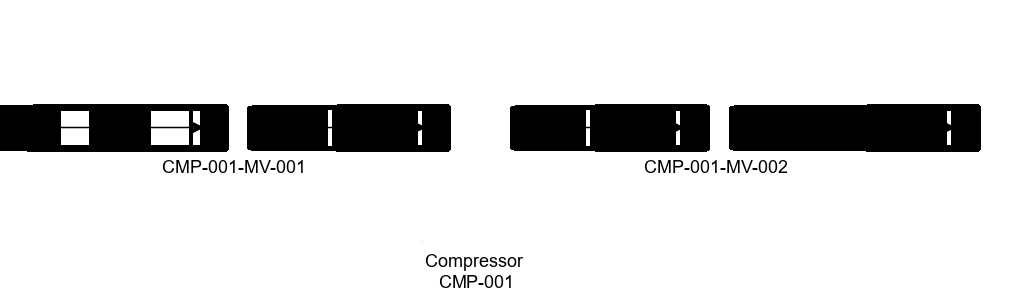
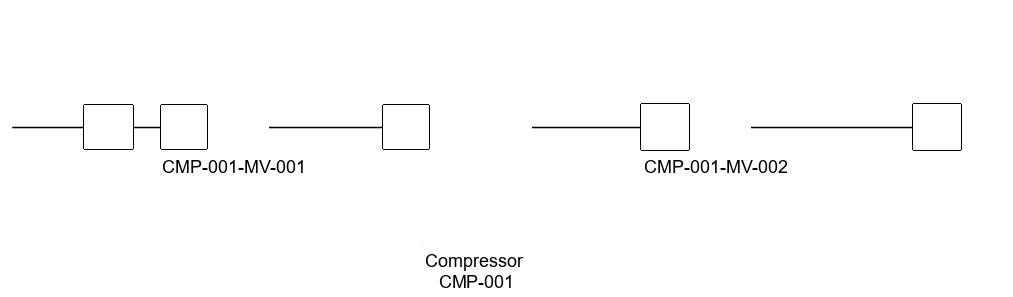
[+] Merge intersection

Changed region(s): [[0.4896, 0.3333, 0.9793, 0.5152], [0.0, 0.3333, 0.459, 0.5152]]

diff --git a/hackathon_conform_it/main.py b/hackathon_conform_it/main.py
@@ -25,9 +25,130 @@ def remove_isolate_peak(coordonates, matrix):
     return list
 
 @staticmethod
-def heatmap(image, template, scale):
+def effacer(image, coord, w, h):
+    return cv.rectangle(image, coord, (coord[0] + w, coord[1] + h), (255, 255, 255), -1)
 
-    return None
+@staticmethod
+def getObjet(img, template_name):
+    template = load_image(f"./tmp/{template_name}.png", True)
+
+    # heatmap = np.zeros(img.shape)
+    hcoin, wcoin = template.shape
+    list_objet = []
+
+    ######## SKImage
+    result = match_template(img, template)
+    coordonates = peak_local_max(result,min_distance=10)
+
+    ## Remove isolate peak
+    coordonates = remove_isolate_peak(coordonates, result)
+
+    ## Save Bounding box --> (x, y), h, w
+    list_coord = []
+    for coord in coordonates:
+        list_coord.append((coord[0], coord[1], wcoin, hcoin))
+
+    coordonates = merge_intersection(list_coord)
+
+    for x, y, w, h in coordonates:
+        list_objet.append(Model(template_name, ((x, y), w, h)))
+
+    fig = plt.figure()
+    ax1 = plt.subplot(1, 2, 1)
+    ax2 = plt.subplot(1, 2, 2)
+
+    ax1.imshow(img)
+    ax1.set_axis_off()
+    ax1.set_title("image")
+    # highlight matched region
+    for j, i, w, h in coordonates:
+        rect = plt.Rectangle((i, j), w, h, edgecolor="r", facecolor="none")
+        ax1.add_patch(rect)
+        img = effacer(img, (i, j), w, h)
+
+    ax2.imshow(img)
+    ax2.set_axis_off()
+    ax2.set_title("`match_template`\nresult")
+
+    plt.show()
+
+    return list_objet
+
+@staticmethod
+def getArrows(image):
+    list_arrow = []
+    template = load_image(f"./tmp/arrow_1_3.png", True)
+    ##### OpenCV
+    w, h = template.shape[::-1]
+    res = cv.matchTemplate(image, template, cv.TM_CCOEFF_NORMED)
+    threshold = 0.33
+    loc = np.where(res >= threshold)
+
+    list_coords = []
+    for pt in zip(*loc[::-1]):
+        list_coords.append((pt[0], pt[1], w, h))
+
+    coordonates = merge_intersection(list_coords)
+
+    for x, y, w, h in coordonates:
+        cv.rectangle(image, (x, y), (x + w, y + h), (0, 0, 255), 2)
+        list_arrow.append(Model("ligne", ((x, y), w, h), (1, 3)))
+
+        image = effacer(image, (x, y), w, h)
+    cv.imwrite("./tmp/res.png", image)
+
+    return list_arrow
+
+@staticmethod
+def getLines(image):
+    list_lines = []
+    template = load_image(f"./tmp/line_h.png", True)
+    ##### OpenCV
+    w, h = template.shape[::-1]
+    res = cv.matchTemplate(image, template, cv.TM_CCOEFF_NORMED)
+    threshold = 0.33
+    loc = np.where(res >= threshold)
+    for pt in zip(*loc[::-1]):
+        cv.rectangle(image, pt, (pt[0] + w, pt[1] + h), (0, 0, 255), 2)
+        list_lines.append(Model("ligne_h", (pt, pt[0] + w, pt[1] + h), (1, 3)))
+    cv.imwrite("./tmp/res.png", image)
+
+    return merge_intersection(list_lines)
+
+@staticmethod
+def is_intersection(box1, box2):
+    if ((box1[0] + box1[2] <= box2[0]) or (box2[0] + box2[2] <= box1[0])
+        or (box1[1] + box1[3] <= box2[1]) or (box2[1] + box2[3] <= box1[1])):
+        return False
+
+    return True
+
+@staticmethod
+def merge_intersection(list_box):
+    changement = False
+    for i in range(len(list_box) - 1):
+        box1 = list_box[i]
+
+        for j in range(i + 1, len(list_box)):
+            box2 = list_box[j]
+            if is_intersection(box1, box2):
+                # Bord Haut Gauche
+                max_x = max(box1[0] + box1[2], box2[0] + box2[2])
+                max_y = max(box1[1] + box1[3], box2[1] + box2[3])
+
+                # Bord Bas Droit
+                min_x = min(box1[0], box2[0])
+                min_y = min(box1[1], box2[1])
+
+                list_box[i] = (min_x, min_y, max_x - min_x, max_y - min_y)
+                list_box.pop(j)
+                merge_intersection(list_box)
+                changement = True
+                break
+        if changement:
+            break
+
+    return list_box
 
 def run():
     """Main."""
@@ -38,10 +159,7 @@ def run():
     object_list = []
 
     for template_name in {"Valve", "Compressor"}:
-        template = load_image(f"./tmp/{template_name}.png", True)
-
-        # heatmap = np.zeros(img.shape)
-        hcoin, wcoin = template.shape
+        object_list += getObjet(img, template_name)
 
         """while (True):
             ## Test
@@ -71,53 +189,13 @@ def run():
         coordonates = remove_isolate_peak(coordonates, heatmap)
         print(coordonates)"""
 
-        ######## SKImage
-        result = match_template(img, template)
-        coordonates = peak_local_max(result,min_distance=10)
-
-        ## Remove isolate peak
-        coordonates = remove_isolate_peak(coordonates, result)
-
-        ## Save Bounding box --> (x, y), h, w
-        for coord in coordonates:
-            object_list.append(Model(template_name, (coord, hcoin, wcoin)))
-
-        fig = plt.figure()
-        ax1 = plt.subplot(1, 2, 1)
-        ax2 = plt.subplot(1, 2, 2)
-
-        ax1.imshow(img)
-        ax1.set_axis_off()
-        ax1.set_title("image")
-        # highlight matched region
-        for j, i in coordonates:
-            rect = plt.Rectangle((i, j), wcoin, hcoin, edgecolor="r", facecolor="none")
-            ax1.add_patch(rect)
-            img = cv.rectangle(img, (i, j), (i + wcoin, j + hcoin), (255, 255, 255), -1)
-
-        ax2.imshow(img)
-        ax2.set_axis_off()
-        ax2.set_title("`match_template`\nresult")
-
-        plt.show()
 
 
     print(object_list)
 
     ## Lines
 
-
-    list_lignes = []
-    template = load_image(f"./tmp/1.png", True)
-    ##### OpenCV
-    w, h = template.shape[::-1]
-    res = cv.matchTemplate(img, template, cv.TM_CCOEFF_NORMED)
-    threshold = 0.33
-    loc = np.where(res >= threshold)
-    for pt in zip(*loc[::-1]):
-        cv.rectangle(img, pt, (pt[0] + w, pt[1] + h), (0, 0, 255), 2)
-        list_lignes.append(Model("ligne_h", (pt, pt[0] + w, pt[1] + h)))
-    cv.imwrite("./tmp/res.png", img)
+    list_lignes = getArrows(img)
 
     print(list_lignes)
 

diff --git a/tests/basic_test.py b/tests/basic_test.py
@@ -1,0 +1,56 @@
+from hackathon_conform_it.main import is_intersection, merge_intersection
+
+def test_is_intersection():
+    # (x, y, w, h)
+    box1 = (2, 2, 3, 3)
+
+    box2 = (1, 1, 2, 2)
+    box3 = (1, 3, 2, 1)
+    box4 = (1, 4, 2, 2)
+    box5 = (3, 1, 1, 2)
+    box6 = (3, 3, 1, 1)
+    box7 = (3, 4, 1, 2)
+    box8 = (4, 1, 2, 2)
+    box9 = (4, 3, 2, 1)
+    box10 = (4, 4, 2, 2)
+
+    box11 = (0, 0, 2, 2)
+    box12 = (0, 3, 2, 1)
+    box13 = (0, 5, 2, 2)
+    box14 = (3, 0, 1, 2)
+    box15 = (3, 3, 1, 1)
+    box16 = (3, 5, 1, 2)
+    box17 = (5, 0, 2, 2)
+    box18 = (5, 3, 2, 1)
+    box19 = (5, 5, 2, 2)
+
+    assert is_intersection(box1, box2)
+    assert is_intersection(box1, box3)
+    assert is_intersection(box1, box4)
+    assert is_intersection(box1, box5)
+    assert is_intersection(box1, box6)
+    assert is_intersection(box1, box7)
+    assert is_intersection(box1, box8)
+    assert is_intersection(box1, box9)
+    assert is_intersection(box1, box10)
+
+    assert not is_intersection(box1, box11)
+    assert not is_intersection(box1, box12)
+    assert not is_intersection(box1, box13)
+    assert not is_intersection(box1, box14)
+    assert is_intersection(box1, box15)
+    assert not is_intersection(box1, box16)
+    assert not is_intersection(box1, box17)
+    assert not is_intersection(box1, box18)
+    assert not is_intersection(box1, box19)
+
+def test_merge_intersection():
+    # (x, y, w, h)
+    box2 = (1, 1, 2, 2)
+    box6 = (3, 3, 1, 1)
+    box10 = (4, 4, 2, 2)
+    box11 = (0, 0, 2, 2)
+    box1 = (2, 2, 3, 3)
+
+    assert merge_intersection([box2, box6, box10, box11]) == [(0, 0, 3, 3), (3, 3, 1, 1), (4, 4, 2, 2)]
+    assert merge_intersection([box2, box6, box10, box11, box1]) == [(0, 0, 6, 6)]

diff --git a/hackathon_conform_it/models.py b/hackathon_conform_it/models.py
@@ -1,14 +1,13 @@
 from dataclasses import dataclass, field
 from typing import List, Tuple, Dict
 
-
-
 @dataclass
 class Model:
     #name: str
     classe: str
     #templates: Dict[str, str] = field(default_factory=dict)
     bounding_box : List[Tuple[Tuple[int, int], int, int]] = field(default_factory=tuple)
+    from_to : Tuple[int, int] = field(default_factory=tuple)
 
     def load(self, name:str) -> 'any':
         pass
